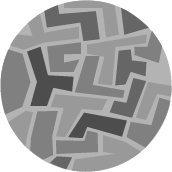
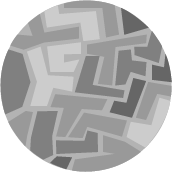
render planets based on Texture

Changed region(s): [[0.1453, 0.0291, 0.5814, 0.6395], [0.3779, 0.5523, 0.9884, 0.8721], [0.6686, 0.2907, 1.0, 0.4942]]

diff --git a/client/warcluster/scene/SpaceScene.js b/client/warcluster/scene/SpaceScene.js
@@ -17,13 +17,26 @@ module.exports.prototype.prepare = function() {
   $(".content").append(this.stats.domElement);
 
   this.context.resourcesLoader.loadTexture("./images/ships/ship1.png");
+  this.context.resourcesLoader.loadTexture("./images/ships/ship2.png");
+  this.context.resourcesLoader.loadTexture("./images/ships/ship3.png");
+  this.context.resourcesLoader.loadTexture("./images/ships/ship4.png");
 
   this.context.resourcesLoader.loadTexture("./images/backgrounds/background5.jpg");
   this.context.resourcesLoader.loadTexture("./images/backgrounds/background6.jpg");
   this.context.resourcesLoader.loadTexture("./images/backgrounds/background7.jpg");
   this.context.resourcesLoader.loadTexture("./images/backgrounds/background8.jpg");
   this.context.resourcesLoader.loadTexture("./images/suns/sun1.png");
+  this.context.resourcesLoader.loadTexture("./images/planets/planet0.png");
   this.context.resourcesLoader.loadTexture("./images/planets/planet1.png");
+  this.context.resourcesLoader.loadTexture("./images/planets/planet2.png");
+  this.context.resourcesLoader.loadTexture("./images/planets/planet3.png");
+  this.context.resourcesLoader.loadTexture("./images/planets/planet4.png");
+  this.context.resourcesLoader.loadTexture("./images/planets/planet5.png");
+  this.context.resourcesLoader.loadTexture("./images/planets/planet6.png");
+  this.context.resourcesLoader.loadTexture("./images/planets/planet7.png");
+  this.context.resourcesLoader.loadTexture("./images/planets/planet8.png");
+  this.context.resourcesLoader.loadTexture("./images/planets/planet9.png");
+
 
   //this.context.resourcesLoader.loadModel("./models/logo.js");
 

diff --git a/client/warcluster/planets/Planet.js b/client/warcluster/planets/Planet.js
@@ -6,25 +6,23 @@ module.exports = function(context, data){
 
 	this.context = context;
 	this.planetData = data;
-
+	// console.log(this.planetData.data.Texture);
 	this.data = {
-		Texture: 1, 
+		Texture: this.planetData.data.Texture, 
 	    Size: this.sc, 
 	    ShipCount: parseInt(50 * this.sc),
 	    BuildPerTick: 0.01,
-	    Owner: Math.random() > 0.5 ? "gophie" : "vitaliy_filipov"
+	    Owner: "this.planetData.data.Owner"
 	};
-
 	var pz = Math.random() * (-50);
-	var bmd1 = context.resourcesLoader.get("./images/planets/planet1.png");
-	var bmd2 = context.resourcesLoader.get("./images/planets/planet_glow.png");
+
+	var bmd1 = context.resourcesLoader.get("./images/planets/planet"+this.data.Texture+".png");
 
 	this.planetSize = {
 		width: 225 * this.sc,
 		height: 225 * this.sc
 	};
 	this.planet =  new THREE.Mesh(new THREE.PlaneGeometry(this.planetSize.width, this.planetSize.height, 1, 1), new THREE.MeshBasicMaterial({map: bmd1, transparent : true}));
-
 	//this.planet.scale.x = this.sc;
 	//this.planet.scale.y = this.sc;
 	this.planet.z = pz;

diff --git a/client/warcluster/BattleField.js b/client/warcluster/BattleField.js
@@ -50,7 +50,7 @@ module.exports = function(){
 
   this.commandsManager = new CommandsManager("http://127.0.0.1:7000/universe");
   this.commandsManager.loginFn = function(data) {
-    console.log("-loginFn-", data);
+    // console.log("-loginFn-", data);
 
     self.playerData = data;
     self.spaceViewController.setPosition(data.Position[0], data.Position[1]);
@@ -64,5 +64,5 @@ module.exports = function(){
 }
 
 module.exports.prototype.connect = function() {
-  this.commandsManager.prepare("RobbFlynn" + Math.random(), "TwitterID" + Math.random());
+  this.commandsManager.prepare("RobbFlynn", "TwitterID");
 }

diff --git a/client/warcluster/commander/CommandsManager.js b/client/warcluster/commander/CommandsManager.js
@@ -40,7 +40,7 @@ module.exports.prototype.prepare = function(username, twitterId) {
 // ***********************************************************************************
 
 module.exports.prototype.parseMessage = function(command) {
-  //console.log("###.parseMessage:", command);
+  console.log("###.parseMessage:", command);
 
   try {
     var data = JSON.parse(command);
